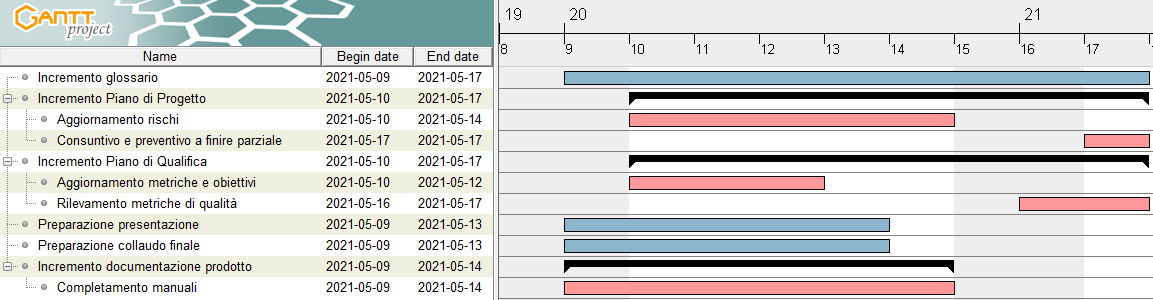
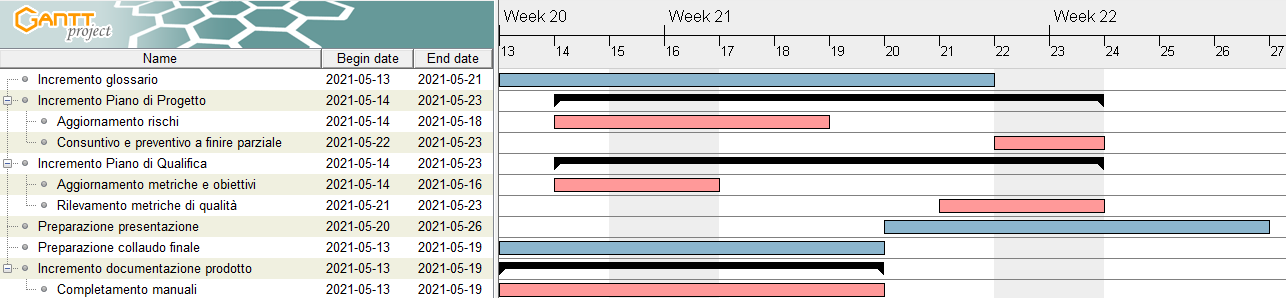
consuntivo, aggiornamento pianificazione, firme

diff --git a/DocumentazioneEsterna/PianoDiProgetto/res/Consuntivo/Fasi/Verifica/incremento11.tex b/DocumentazioneEsterna/PianoDiProgetto/res/Consuntivo/Fasi/Verifica/incremento11.tex
@@ -1,0 +1,45 @@
+\subsubsection{Incremento 11}
+\myparagraph{Consuntivo}
+
+{
+
+\rowcolors{2}{azzurro2}{azzurro3}
+
+\centering
+\renewcommand{\arraystretch}{1.8}
+\begin{longtable}{C{4cm} C{1.5cm} C{4cm} }
+
+\rowcolor{azzurro1}
+\textbf{Ruolo} &
+\textbf{Ore}&
+\textbf{Costo}\\
+\endhead
+
+\textit{Responsabile} & 5 (+0) & 150 (+0\euro{}) \\
+\ammProg & 6 (+0) & 120\euro{} (+0\euro{}) \\
+\analProg & 0 (+0) & 0\euro{} (+0\euro{}) \\
+\progetProg & 11 (+0) & 242\euro{} (+0\euro{}) \\
+\programProg & 13 (+2) & 195\euro{} (+30\euro{}) \\
+\verifProg & 16 (+0) & 240\euro{} (+0\euro{})\\
+\textbf{Totale Preventivo} & \textbf{51} & \textbf{947\euro{}} \\
+\textbf{Totale Consuntivo} & \textbf{53} & \textbf{977\euro{}} \\
+\textbf{Differenza} & \textbf{+2} & \textbf{+30\euro{}} \\
+
+
+\rowcolor{white}
+\caption{Consuntivo di periodo dell'incremento 11}\\
+
+\end{longtable}
+}
+
+\myparagraph{Considerazioni}
+In questo incremento sono state implementate le ultime funzionalità previste per il nostro prodotto, che ha però portato ad un ritardo e un impegno maggiore di quanto previsto. In particolare sono state trovate alcune problematiche nello sviluppo delle pagine statiche incrementali e nell'autenticazione delle API\ped{G}, ma che sono state risolte tramite ricerche\\
+Nonostante ciò, la produzione degli incrementi documentali è risultata come prevista inizialmente.
+Dato il ritardo di completamento di questo incremento ed una discussione sugli impegni individuali dei componenti del gruppo durante la fase corrente, è stata effettuata una ripianificazione temporale degli incrementi successivi, lasciando comunque invariato l'impegno orario. Rimangono invariati gli obiettivi dei successivi incrementi.
+
+
+
+\myparagraph{Preventivo a finire}
+Il bilancio risulta leggermente negativo rispetto al preventivo dell'incremento, con una perdita di 30\euro{}. Esso viene però sanato dal risparmio precedente di 36\euro{}, risultando in un risparmio totale di 6\euro{}.\\ 
+Date le considerazioni precedenti e con il bilancio totale ancora in positivo, riteniamo di essere in linea con il preventivo e non prevediamo cambiamenti drastici di esso.
+

diff --git a/DocumentazioneEsterna/PianoDiProgetto/res/Consuntivo/Fasi/Verifica/incremento12.tex b/DocumentazioneEsterna/PianoDiProgetto/res/Consuntivo/Fasi/Verifica/incremento12.tex
@@ -1,0 +1,49 @@
+\subsubsection{Incremento 12}
+\myparagraph{Consuntivo}
+
+{
+
+\rowcolors{2}{azzurro2}{azzurro3}
+
+\centering
+\renewcommand{\arraystretch}{1.8}
+\begin{longtable}{C{4cm} C{1.5cm} C{4cm} }
+
+\rowcolor{azzurro1}
+\textbf{Ruolo} &
+\textbf{Ore}&
+\textbf{Costo}\\
+\endhead
+
+\textit{Responsabile} & 5 (+0) & 150 (+0\euro{}) \\
+\ammProg & 4 (+0) & 80\euro{} (+0\euro{}) \\
+\analProg & 0 (+0) & 0\euro{} (+0\euro{}) \\
+\progetProg & 5 (+0) & 110\euro{} (+0\euro{}) \\
+\programProg & 18 (+5) & 270\euro{} (+75\euro{}) \\
+\verifProg & 27 (-5) & 480\euro{} (-75\euro{})\\
+\textbf{Totale Preventivo} & \textbf{64} & \textbf{1090\euro{}} \\
+\textbf{Totale Consuntivo} & \textbf{64} & \textbf{1090\euro{}} \\
+\textbf{Differenza} & \textbf{+0} & \textbf{+0\euro{}} \\
+
+
+\rowcolor{white}
+\caption{Consuntivo di periodo dell'incremento 12}\\
+
+\end{longtable}
+}
+
+\myparagraph{Considerazioni}
+In questo incremento sono stati implementati gli ultimi test, insieme ad un controllo finale (anche con il proponente) riguardo i test di sistema e accettazione.\\
+Purtroppo, facendo test estensivi nel sito, sono venuti a galla alcuni bug da risolvere immediatamente, che hanno portato un'ulteriore impegno nel ruolo di \programProg{}.
+In compenso, sono state utilizzate meno ore per il ruolo di \verifProg{}, dati i minori documenti da verificare rispetto quanto previsto.\\
+Inoltre il proponente, tramite l'incontro previsto, si ritiene soddisfatto del prodotto e delle funzionalità implementate.\\
+Gli obiettivi dell'incremento sono quindi stati soddisfatti, particolarmente rispettando i valori accettabili di code coverage dei test ed il soddisfacimento dei nostri test di accettazione. Gli obiettivi documentali sono stati anch'essi rispettati senza problemi.
+
+
+
+\myparagraph{Preventivo a finire}
+Il bilancio è in pari rispetto al preventivo dell'incremento. Il risparmio totale resta di 6\euro{}.
+Date le considerazioni precedenti riguardo gli obiettivi e con il bilancio totale ancora in positivo, riteniamo di essere in linea con il preventivo e non prevediamo cambiamenti drastici di esso.
+
+
+

diff --git a/DocumentazioneEsterna/PianoDiProgetto/res/Consuntivo/Fasi/finaleRendicontato.tex b/DocumentazioneEsterna/PianoDiProgetto/res/Consuntivo/Fasi/finaleRendicontato.tex
@@ -1,0 +1,69 @@
+\subsection{Consuntivo totale rendicontato}
+
+\subsubsection{Prospetto orario}
+La seguente tabella riporta la distribuzione totale delle ore rendicontate di lavoro effettivamente svolte nel progetto. 
+{
+
+\rowcolors{2}{azzurro2}{azzurro3}
+
+\centering
+\renewcommand{\arraystretch}{1.8}
+\begin{longtable}{C{4cm} C{1cm} C{1cm} C{1cm} C{1cm} C{1cm} C{1cm} C{2cm}}
+
+\rowcolor{azzurro1}
+\textbf{Nominativo} &
+\textbf{RE}&
+\textbf{AM}&
+\textbf{AN}&
+\textbf{PT}&
+\textbf{PR}&
+\textbf{VE}&
+\textbf{Ore totali}\\
+\endhead
+
+\MB & 0 & 13 & 0 & 29 & 32 & 28 & 102 \\
+\VAS & 11 & 5 & 10 & 17 & 28 & 30 & 101 \\
+\FD & 0 & 10 & 7 & 23 & 30 & 32 & 102 \\
+\NM & 10 & 5 & 6 & 16 & 29 & 36 & 102 \\
+\SB & 11 & 7 & 6 & 16 & 30 & 32 & 102 \\
+\GB & 13 & 14 & 0 & 15 & 34 & 26 & 102 \\
+\MDI & 10 & 12 & 0 & 28 & 27 & 25 & 102 \\
+\textbf{Ore Totali} & 55 & 66 & 29 & 144 & 210 & 209 & 713 \\
+
+\rowcolor{white}
+\caption{Distribuzione delle ore rendicontate effettive}\\
+\rowcolor{azzurro1}
+\end{longtable}
+}
+
+\subsubsection{Prospetto economico}
+Di seguito vengono riportati i costi affrontati nel progetto, includendo solo le ore rendicontate.
+{
+
+\rowcolors{2}{azzurro2}{azzurro3}
+
+\centering
+\renewcommand{\arraystretch}{1.8}
+\begin{longtable}{C{3cm} C{1cm} C{2cm} }
+\rowcolor{azzurro1}
+\textbf{Ruolo} &
+\textbf{Ore}&
+\textbf{Costo}\\
+\endhead
+
+\textit{Responsabile} & 55 & 1650\euro{} \\
+\ammProg & 66 & 1320\euro{} \\
+\analProg & 29 & 725\euro{} \\
+\progetProg & 144 & 3168\euro{} \\
+\programProg & 210 & 3150\euro{} \\
+\verifProg & 209 & 3135\euro{} \\
+\textbf{Totale} & 713 & 13148\euro{} \\
+\rowcolor{white}
+\caption{Prospetto dei costi effettivi per il periodo rendicontato}
+
+\end{longtable}
+
+}
+
+\subsection{Conclusioni}
+Il progetto viene quindi completato con un bilancio positivo: \textbf{13148\euro{}} a fronte del preventivo di \textbf{13154\euro{}}

diff --git a/DocumentazioneEsterna/PianoDiProgetto/res/Consuntivo/Fasi/finale.tex b/DocumentazioneEsterna/PianoDiProgetto/res/Consuntivo/Fasi/finale.tex
@@ -1,0 +1,66 @@
+\subsection{Consuntivo totale}
+
+\subsubsection{Prospetto orario}
+La seguente tabella riporta la distribuzione totale delle ore di lavoro effettivamente svolte nel progetto, compreso del periodo non rendicontato.
+{
+
+\rowcolors{2}{azzurro2}{azzurro3}
+
+\centering
+\renewcommand{\arraystretch}{1.8}
+\begin{longtable}{C{4cm} C{1cm} C{1cm} C{1cm} C{1cm} C{1cm} C{1cm} C{2cm}}
+
+\rowcolor{azzurro1}
+\textbf{Nominativo} &
+\textbf{RE}&
+\textbf{AM}&
+\textbf{AN}&
+\textbf{PT}&
+\textbf{PR}&
+\textbf{VE}&
+\textbf{Ore totali}\\
+\endhead
+
+\MB & 15 & 13 & 12 & 29 & 32 & 38 & 139 \\
+\VAS & 11 & 26 & 17 & 17 & 28 & 42 & 141 \\
+\FD & 10 & 19 & 14 & 23 & 30 & 44 & 140 \\
+\NM & 10 & 28 & 13 & 16 & 29 & 46 & 142 \\
+\SB & 11 & 28 & 13 & 16 & 30 & 42 & 140 \\
+\GB & 13 & 14 & 22 & 15 & 34 & 39 & 137 \\
+\MDI & 10 & 12 & 24 & 28 & 27 & 37 & 138 \\
+\textbf{Ore Totali} & 80 & 140 & 115 & 144 & 210 & 288 & 977 \\
+
+\rowcolor{white}
+\caption{Distribuzione ore complessive effettive}\\
+\rowcolor{azzurro1}
+\end{longtable}
+}
+
+\subsubsection{Prospetto economico}
+Di seguito vengono riportati i costi complessivi affrontati nel progetto, compreso di periodo non rendicontato.
+{
+
+\rowcolors{2}{azzurro2}{azzurro3}
+
+\centering
+\renewcommand{\arraystretch}{1.8}
+\begin{longtable}{C{3cm} C{1cm} C{2cm} }
+\rowcolor{azzurro1}
+\textbf{Ruolo} &
+\textbf{Ore}&
+\textbf{Costo}\\
+\endhead
+
+\textit{Responsabile} & 80 & 2400\euro{} \\
+\ammProg & 140 & 2800\euro{} \\
+\analProg & 115 & 2875\euro{} \\
+\progetProg & 144 & 3168\euro{} \\
+\programProg & 210 & 3150\euro{} \\
+\verifProg & 288 & 4320\euro{} \\
+\textbf{Totale} & 977 & 18713\euro{} \\
+\rowcolor{white}
+\caption{Prospetto dei costi effettivi per l'intero progetto}
+
+\end{longtable}
+
+}

diff --git a/DocumentazioneEsterna/PianoDiProgetto/res/Consuntivo/Fasi/Verifica/incremento13.tex b/DocumentazioneEsterna/PianoDiProgetto/res/Consuntivo/Fasi/Verifica/incremento13.tex
@@ -1,0 +1,45 @@
+\subsubsection{Incremento 13}
+\myparagraph{Consuntivo}
+
+{
+
+\rowcolors{2}{azzurro2}{azzurro3}
+
+\centering
+\renewcommand{\arraystretch}{1.8}
+\begin{longtable}{C{4cm} C{1.5cm} C{4cm} }
+
+\rowcolor{azzurro1}
+\textbf{Ruolo} &
+\textbf{Ore}&
+\textbf{Costo}\\
+\endhead
+
+\textit{Responsabile} & 5 (+0) & 150 (+0\euro{}) \\
+\ammProg & 5 (+0) & 100\euro{} (+0\euro{}) \\
+\analProg & 0 (+0) & 0\euro{} (+0\euro{}) \\
+\progetProg & 0 (+0) & 0\euro{} (+0\euro{}) \\
+\programProg & 0 (+0) & 0\euro{} (+0\euro{}) \\
+\verifProg & 15 (+0) & 225\euro{} (+0\euro{})\\
+\textbf{Totale Preventivo} & \textbf{25} & \textbf{225\euro{}} \\
+\textbf{Totale Consuntivo} & \textbf{25} & \textbf{225\euro{}} \\
+\textbf{Differenza} & \textbf{+0} & \textbf{+0\euro{}} \\
+
+
+\rowcolor{white}
+\caption{Consuntivo di periodo dell'incremento 13}\\
+
+\end{longtable}
+}
+
+\myparagraph{Considerazioni}
+In questo ultimo incremento sono state effettuate le ultime preparazioni alla Revisione di Accettazione. Il collaudo finale con il proponente ... .\\
+Gli obiettivi sono stati soddisfatti, il prodotto è quindi pronto per il rilascio e i documenti sono completi.
+
+
+
+\myparagraph{Preventivo a finire}
+Il bilancio è in pari rispetto al preventivo dell'incremento. Il risparmio totale resta di 6\euro{}.
+Sono state quindi concluse tutte le attività di progetto senza problemi riguardanti il bilancio.
+
+

diff --git a/DocumentazioneEsterna/PianoDiProgetto/res/Organigramma/organigramma.tex b/DocumentazioneEsterna/PianoDiProgetto/res/Organigramma/organigramma.tex
@@ -18,11 +18,11 @@
 \textbf{Firma}\\
 \endhead
 
-\SB & 2021-02-27 &
-\raisebox{-0.3\height}{\includegraphics[width=0.9\linewidth,height=0.8\textheight,keepaspectratio]{res/Organigramma/Firme/Silvia}}\\
+\MDI & 2021-02-27 &
+\raisebox{-0.3\height}{\includegraphics[width=0.9\linewidth,height=0.8\textheight,keepaspectratio]{res/Organigramma/Firme/Marco}}\\
 
-\GB & 2021-02-27 & 
-\raisebox{-0.25\height}{\includegraphics[width=0.9\linewidth,height=0.8\textheight,keepaspectratio]{res/Organigramma/Firme/Gabriel}}\\
+\VAS & 2021-02-27 & 
+\raisebox{-0.25\height}{\includegraphics[width=0.9\linewidth,height=0.8\textheight,keepaspectratio]{res/Organigramma/Firme/Tusa}}\\
 
 \end{longtable}
 }
@@ -43,7 +43,7 @@
 \textbf{Firma}\\
 \endhead
 
-\GB & 2021-03-01 & \raisebox{-0.3\height}{\includegraphics[width=0.9\linewidth,height=0.8\textheight,keepaspectratio]{res/Organigramma/Firme/Gabriel}}\\
+\MDI & 2021-03-01 & \raisebox{-0.3\height}{\includegraphics[width=0.9\linewidth,height=0.8\textheight,keepaspectratio]{res/Organigramma/Firme/Marco}}\\
 \VT & & \\
 \CR & & \\
 

diff --git a/DocumentazioneEsterna/PianoDiProgetto/res/Consuntivo/Fasi/Codifica/incremento10.tex b/DocumentazioneEsterna/PianoDiProgetto/res/Consuntivo/Fasi/Codifica/incremento10.tex
@@ -42,6 +42,5 @@ Sono state inoltre richieste meno ore per il ruolo di \programProg{}, dato le mi
 Il bilancio è positivo rispetto al preventivo dell'incremento, con un risparmio di 15\euro{}, che si va ad aggiungere al bilancio della precedente fase, risultando in un risparmio totale di 36\euro{} da poter usare nei prossimi incrementi in caso di ritardi.
 Gli obiettivi preimpostati sono stati raggiunti a pieno, senza alcun rallentamento rispetto a quanto pianificato.\\
 Alla luce dei costi e degli obiettivi raggiunti, non si ritiene necessaria alcuna ripianificazione degli incrementi o modifica del preventivo.\\
-Aspettiamo l'esito della Revisione di Qualifica per confermare il consuntivo di questo incremento e conseguentemente, della complessiva fase.
 
 

diff --git a/DocumentazioneEsterna/PianoDiProgetto/res/Consuntivo/Fasi/Codifica/incremento5.tex b/DocumentazioneEsterna/PianoDiProgetto/res/Consuntivo/Fasi/Codifica/incremento5.tex
@@ -22,7 +22,7 @@
 \programProg & 0 (+0) & 0\euro{} (+0\euro{}) \\
 \verifProg & 15 (+0) & 225\euro{} (+0\euro{})\\
 \textbf{Totale Preventivo} & \textbf{50} & \textbf{1007\euro{}} \\
-\textbf{Totale Consuntivo} & \textbf{49} & \textbf{967\euro{}} \\
+\textbf{Totale Consuntivo} & \textbf{48} & \textbf{967\euro{}} \\
 \textbf{Differenza} & \textbf{-2} & \textbf{-40\euro{}} \\
 
 

diff --git a/DocumentazioneEsterna/PianoDiProgetto/res/Consuntivo/consuntivo.tex b/DocumentazioneEsterna/PianoDiProgetto/res/Consuntivo/consuntivo.tex
@@ -13,3 +13,8 @@ Verrà inoltre analizzato l'effettivo andamento del gruppo nei vari incrementi, 
 \input{res/Consuntivo/Fasi/analisi}
 \input{res/Consuntivo/Fasi/progettazione}
 \input{res/Consuntivo/Fasi/codifica}
+\input{res/Consuntivo/Fasi/verifica}
+\newpage
+\input{res/Consuntivo/Fasi/finale}
+\input{res/Consuntivo/Fasi/finaleRendicontato}
+

diff --git a/DocumentazioneEsterna/PianoDiProgetto/res/Pianificazione/Fasi/VerificaIncrementi/incremento11.tex b/DocumentazioneEsterna/PianoDiProgetto/res/Pianificazione/Fasi/VerificaIncrementi/incremento11.tex
@@ -1,5 +1,5 @@
 \subsubsection{Incremento 11}
-\textit{\textbf{Periodo}: dal 2021-04-26 al 2021-04-29}
+\textit{\textbf{Periodo}: dal 2021-04-26 al 2021-05-02}
 
 \myparagraph{Obiettivi}
 Gli obiettivi definiti per questo incremento sono i seguenti:

diff --git a/DocumentazioneEsterna/PianoDiProgetto/res/Pianificazione/Fasi/VerificaIncrementi/incremento12.tex b/DocumentazioneEsterna/PianoDiProgetto/res/Pianificazione/Fasi/VerificaIncrementi/incremento12.tex
@@ -1,5 +1,5 @@
 \subsubsection{Incremento 12}
-\textit{\textbf{Periodo}: dal 2021-04-30 al 2021-05-08}
+\textit{\textbf{Periodo}: dal 2021-05-03 al 2021-05-11}
 
 \myparagraph{Obiettivi}
 Gli obiettivi definiti per questo incremento sono i seguenti:

diff --git a/DocumentazioneEsterna/PianoDiProgetto/res/Pianificazione/Fasi/VerificaIncrementi/incremento13.tex b/DocumentazioneEsterna/PianoDiProgetto/res/Pianificazione/Fasi/VerificaIncrementi/incremento13.tex
@@ -1,5 +1,5 @@
 \subsubsection{Incremento 13}
-\textit{\textbf{Periodo}: dal 2021-05-09 al 2021-05-17}
+\textit{\textbf{Periodo}: dal 2021-05-13 al 2021-05-26}
 
 \myparagraph{Obiettivi}
 Gli obiettivi definiti per questo incremento sono i seguenti:
